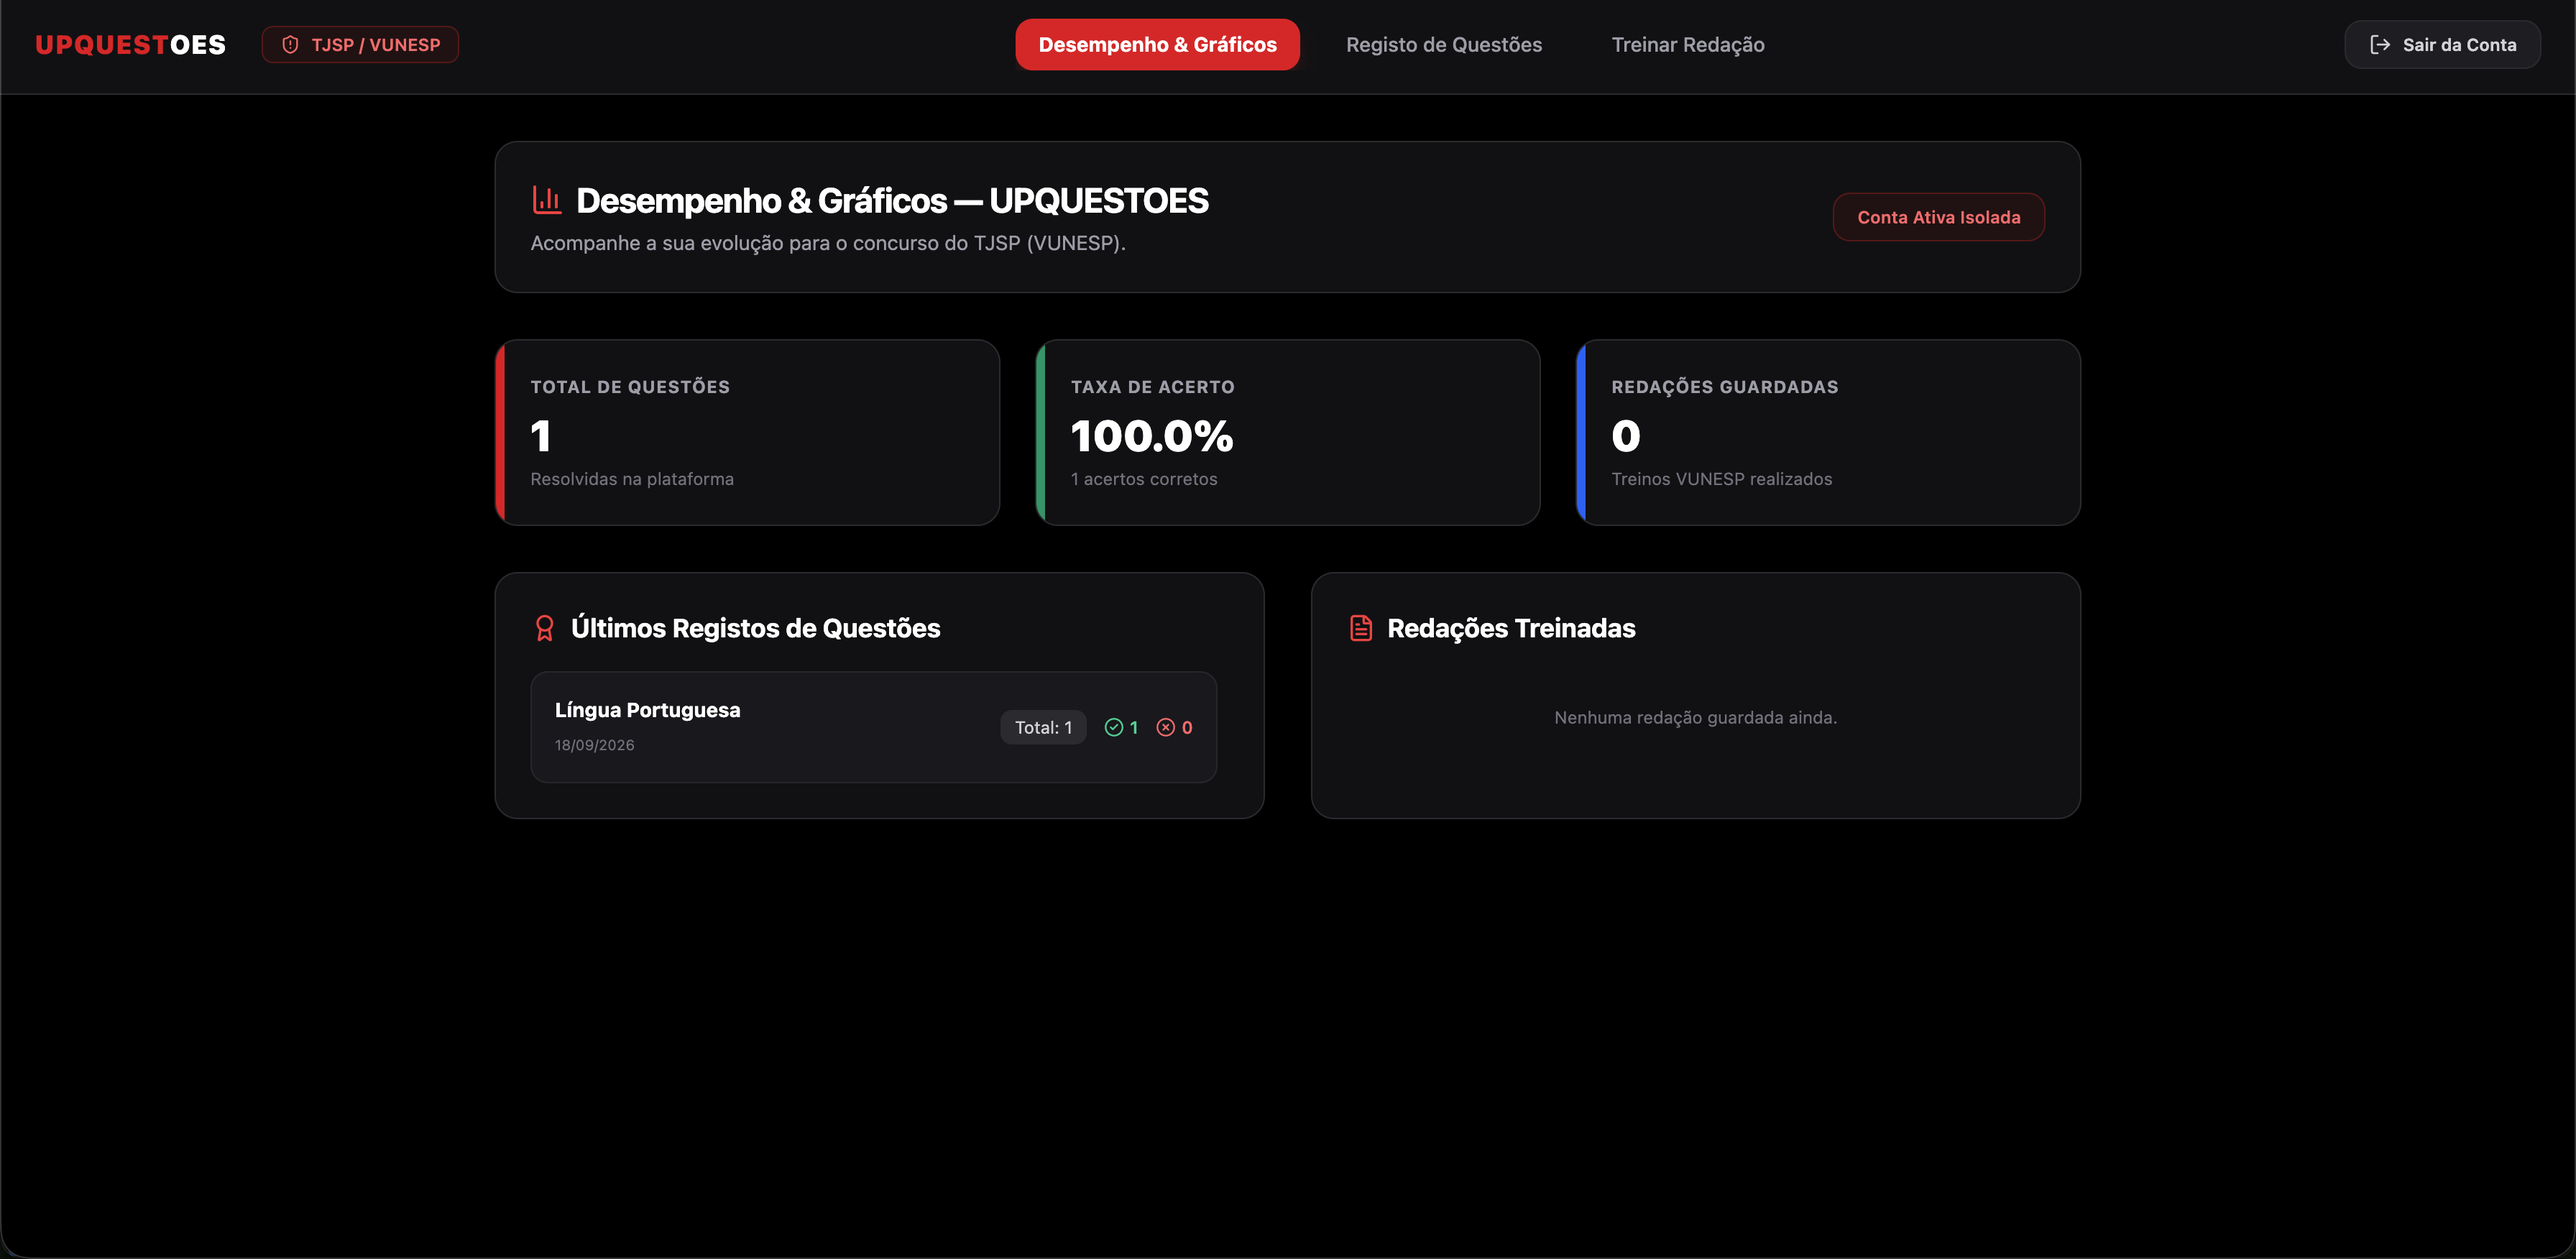
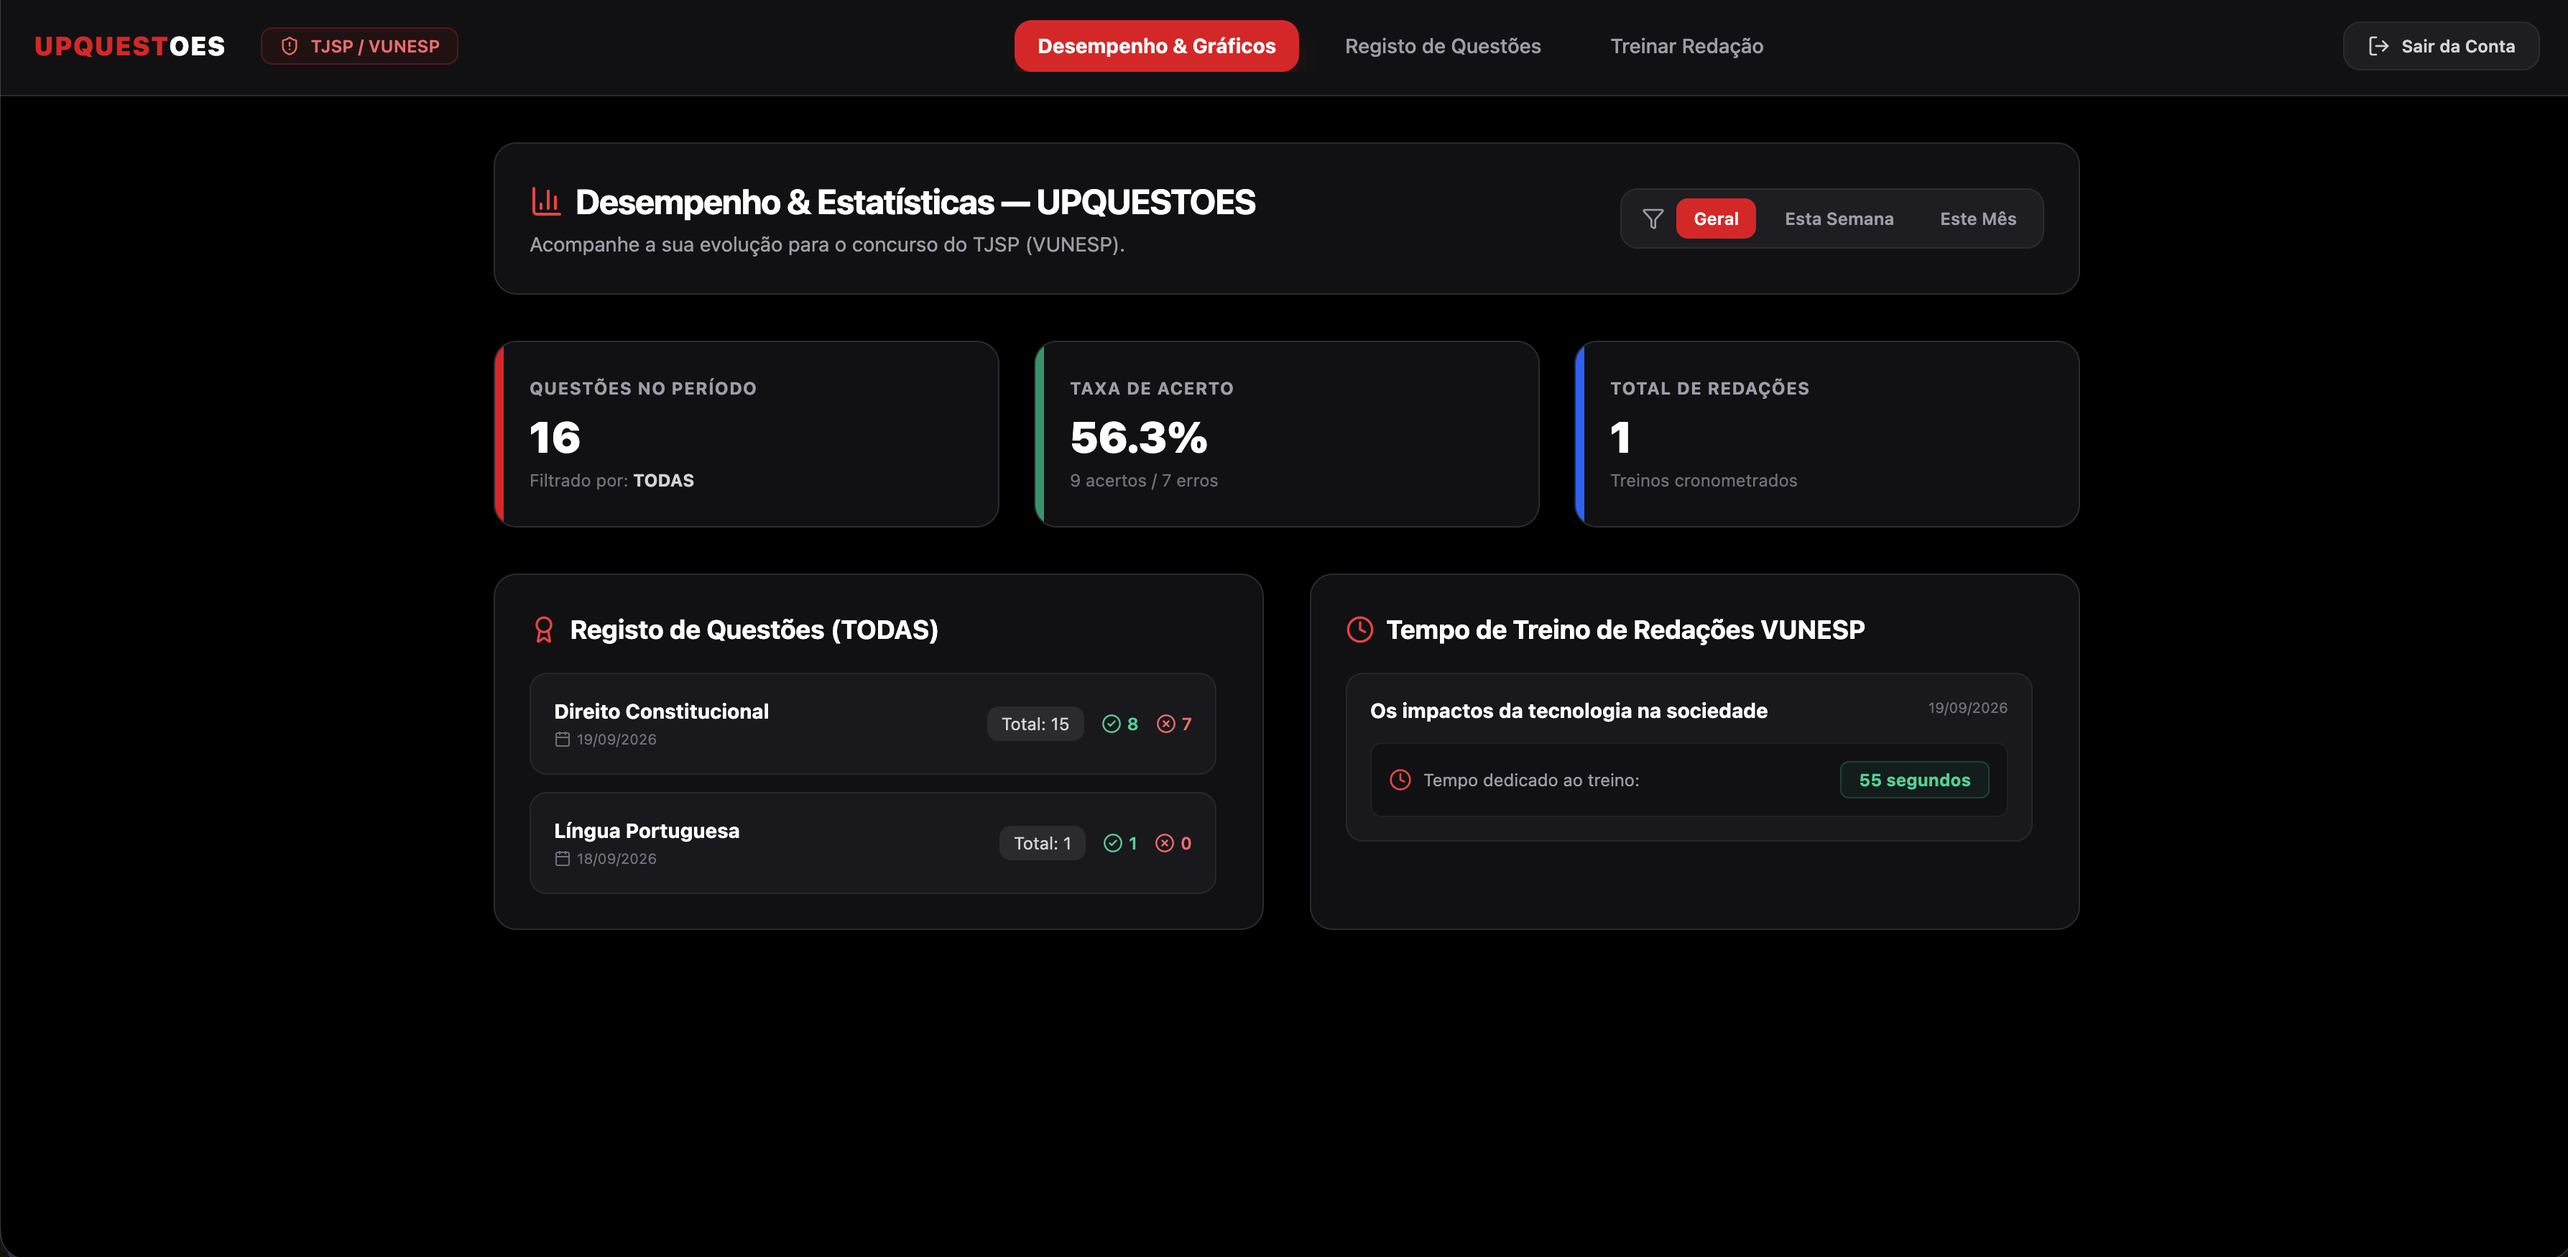
ajuste

diff --git a/src/app/page.tsx b/src/app/page.tsx
@@ -201,11 +201,11 @@ export default function Portfolio() {
 
               <div className="grid grid-cols-3 gap-6 mt-12 pt-8 border-t border-neutral-800/80">
                 <div>
-                  <h4 className="text-2xl sm:text-3xl font-black text-white">3+</h4>
+                  <h4 className="text-2xl sm:text-3xl font-black text-white">2+</h4>
                   <p className="text-xs sm:text-sm text-neutral-400 mt-1">Anos em Tech</p>
                 </div>
                 <div>
-                  <h4 className="text-2xl sm:text-3xl font-black text-white">3+</h4>
+                  <h4 className="text-2xl sm:text-3xl font-black text-white">5+</h4>
                   <p className="text-xs sm:text-sm text-neutral-400 mt-1">Sistemas Desenvolvidos</p>
                 </div>
                 <div>
